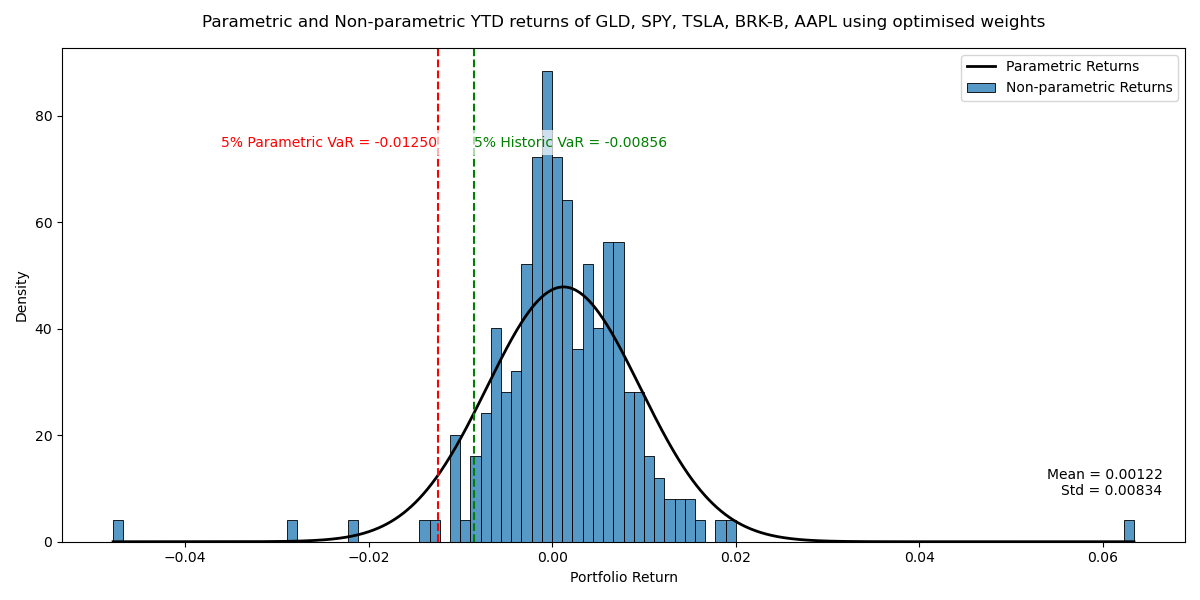
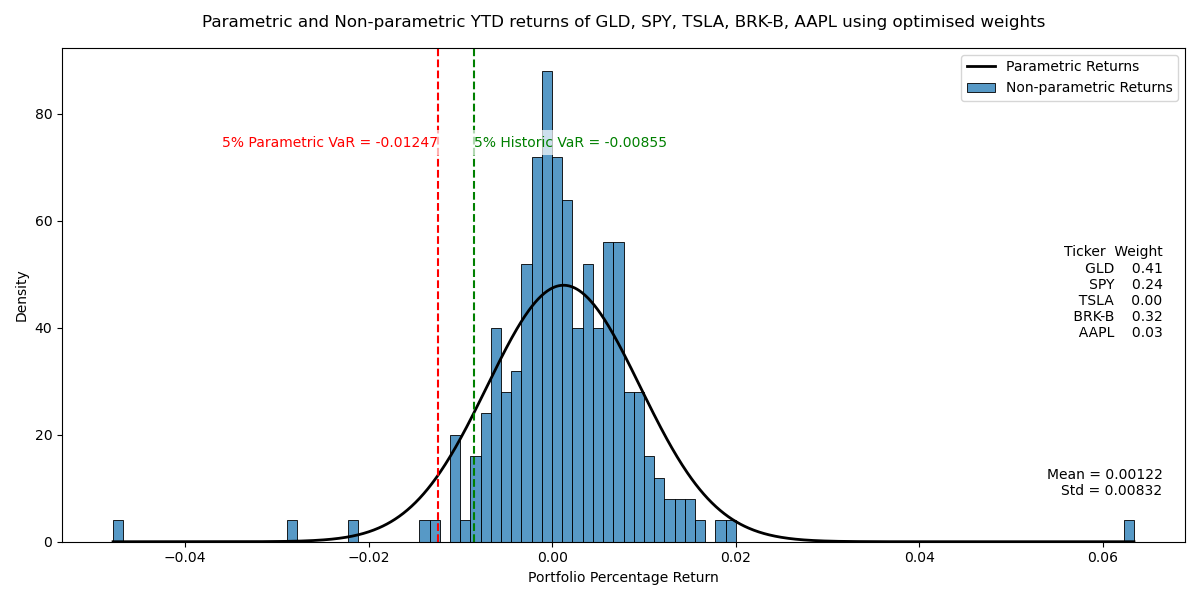
Edited to include weights at the side

diff --git a/SCRIPTS/stat_methods.py b/SCRIPTS/stat_methods.py
@@ -78,7 +78,17 @@ def varplots(returns,weights, weight_type, img_path,tickers):
         fontsize=10,
         bbox=dict(facecolor='white', alpha=0.7, edgecolor='none')
     )
-    ax.set_xlabel("Portfolio Return") 
+    df_weights = pd.DataFrame({"Ticker": tickers,"Weight": np.array(weights).round(2)})
+    weights_text = df_weights.to_string(index=False)
+    ax.text(
+        0.98, 0.60,
+        weights_text,
+        transform=ax.transAxes,      
+        ha='right', va='top',
+        fontsize=10,
+        bbox=dict(facecolor='white', alpha=0.7, edgecolor='none')
+    )
+    ax.set_xlabel("Portfolio Percentage Return") 
     ax.set_title(f'Parametric and Non-parametric YTD returns of '+ f', '.join(tickers) + f' using {weight_type} weights',wrap=True, pad=15)
     ax.legend()
     fig.tight_layout()
